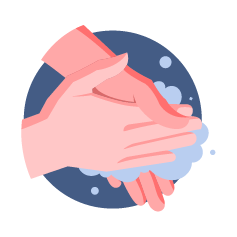
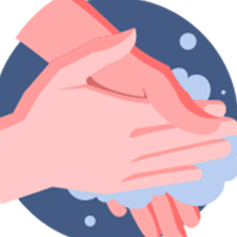
Se modifica seccion de historia

diff --git a/src/components/talleres/Presentacion3.jsx b/src/components/talleres/Presentacion3.jsx
@@ -1,6 +1,7 @@
 import React from 'react';
 import './css/estilos.css';
 import { Link } from 'react-router-dom';
+import imagenes from '../../assets/images';
 
 export const Presentacion3 = ({
     imagen,
@@ -10,26 +11,65 @@ export const Presentacion3 = ({
     return (
         <div className="presentacion-3">
             <div className="container">
-                <div className="row text-center">
-                    <div className="col-12 mt-5 d-flex justify-content-center">
-                        <div>
-                            <img className="img-fluid img-historia" src={imagen}/>
+                <div className="row">
+                    <div className="col-12 col-md-4 mt-5">
+                        <h2 className="titulo display-5">HISTORIA</h2>
+                        <p className="subtitulo">Lavado de manos</p>
+                        <p>
+                            Durante el año 1846, el médico Húngaro Ignaz Semmelweis, constató y fundamentó que 
+                            el lavado de manos entre el personal de salud disminuyó la mortalidad y otros pacedimientos
+                            entre los pacientes.
+                        </p>
+                    </div>
+                    <div className="col-12 col-md-8 mt-5">
+                        <div className="d-flex border-bottom p-3">
+                            <div>
+                                <h6 className="subtitulo-grande">Ignaz Semmelweis</h6>
+                                <p>
+                                    Propuso el lavado de manos entre el personal médico, y se evidenció que la mortalidad se 
+                                    disminuyó abruptamente a partir de ese momento, ésta estrategia se mantuvo
+                                    por varios años.
+                                </p>
+                            </div>
+                            <img src={ imagenes.historia } className="img1-presentacion-3" />
+                        </div>
+                        <div className="d-flex mt-4">
+                            <div className="pr-1 border-end">
+                                <p className="subtitulo">Personajes que realizaron aportes que muestran lavado de manos es una medida para evitar infecciones:</p>
+                                <ul>
+                                    <li>Ignaz Semmelweis</li>
+                                    <li>Oliver Holmes</li>
+                                </ul>
+                            </div>
+                            <img src={ imagenes.historia2 } className="img2-presentacion-3 p-2" />
                         </div>
                     </div>
-                    <div className="col-12 mt-5 d-flex justify-content-center ">
-                        <div className="text-center text-white p-3 rounded-pill texto-historia">
-                            <p className="display-6">{parrafo} </p>
-                        </div>
-                    </div>
-                    <Link
-                    to={ enlace }
-                    className="regresar-menu mt-3"
-                >
-                    Seguir leyendo >>
-                </Link>
                 </div>
             </div>
-            
         </div>
     )
 }
+
+{/* <div className="presentacion-3">
+<div className="container">
+    <div className="row text-center">
+        <div className="col-12 mt-5 d-flex justify-content-center">
+            <div>
+                <img className="img-fluid img-historia" src={imagen}/>
+            </div>
+        </div>
+        <div className="col-12 mt-5 d-flex justify-content-center ">
+            <div className="text-center text-white p-3 rounded-pill texto-historia">
+                <p className="display-6">{parrafo} </p>
+            </div>
+        </div>
+        <Link
+        to={ enlace }
+        className="regresar-menu mt-3"
+    >
+        Seguir leyendo >>
+    </Link>
+    </div>
+</div>
+
+</div> */}

diff --git a/src/components/talleres/MenuSeleccion/MenuSeleccion.jsx b/src/components/talleres/MenuSeleccion/MenuSeleccion.jsx
@@ -13,15 +13,15 @@ export const MenuSeleccion = () => {
             <div className="container my-5">
                 <div className="row ">
                     <div className="col-12 col-md-6">
-                        <OpcionMenuSeleccion texto="Introducción" imagen={ imagenes.uno } ruta="/lavado-manos/introduccion" />
-                        <OpcionMenuSeleccion texto="Lavado de manos social" imagen={ imagenes.dos } ruta="/lavado-manos/introduccion" />
-                        <OpcionMenuSeleccion texto="Elementos necesarios" imagen={ imagenes.tres } ruta="/lavado-manos/introduccion" />
+                        <OpcionMenuSeleccion texto="Introducción" imagen={ imagenes.uno } ruta="/adultos/lavado-manos/introduccion" />
+                        <OpcionMenuSeleccion texto="Lavado de manos social" imagen={ imagenes.dos } ruta="/adultos/lavado-manos/lavado-social" />
+                        <OpcionMenuSeleccion texto="Elementos necesarios" imagen={ imagenes.tres } ruta="/adultos/lavado-manos/elementos-necesarios" />
                     </div>
 
                     <div className="col-12 col-md-6"> 
-                        <OpcionMenuSeleccion texto="5 momentos del lavado de manos" imagen={ imagenes.cuatro } ruta="/lavado-manos/introduccion" />
-                        <OpcionMenuSeleccion texto="Tecnica correcta de lavado" imagen={ imagenes.cinco } ruta="/lavado-manos/introduccion" />
-                        <OpcionMenuSeleccion texto="Cuestionario" imagen={ imagenes.seis} ruta="/lavado-manos/introduccion" />
+                        <OpcionMenuSeleccion texto="5 momentos del lavado de manos" imagen={ imagenes.cuatro } ruta="/adultos/lavado-manos/video2" />
+                        <OpcionMenuSeleccion texto="Tecnica correcta de lavado" imagen={ imagenes.cinco } ruta="/adultos/lavado-manos/introduccion" />
+                        <OpcionMenuSeleccion texto="Cuestionario" imagen={ imagenes.seis} ruta="/adultos/lavado-manos/introduccion" />
                     </div>
                 </div>
             </div>

diff --git a/src/components/talleres/Presentacion2.jsx b/src/components/talleres/Presentacion2.jsx
@@ -21,7 +21,7 @@ export const Presentacion2 = ({
                 <div className="container">
                     <div className="row">
                         <div className="col-md-3 d-none d-md-flex justify-content-center align-items-center div-img-intro">
-                            <img src={imagen}
+                            <img src={ imagen }
                                 alt="adulto mujer"
                                 className="img-introduccion d-none d-md-block"
                             />
@@ -41,7 +41,7 @@ export const Presentacion2 = ({
                                 to={ enlace }
                                 className="seguir-leyendo"
                                 onClick={() => {
-                                    setStopAudio(sound);
+                                    setStopAudio( sound );
                                 }
                                 }
                             >

diff --git a/src/components/adultos/lavadoManos/IntroduccionLavadoManos.jsx b/src/components/adultos/lavadoManos/IntroduccionLavadoManos.jsx
@@ -9,7 +9,7 @@ export const IntroduccionLavadoManos = () => {
     return (
         <Presentacion2 
             imagen={ imagenes.lavadoDeManosDos}
-            parrafo1= "La higiene de manos es el termino general que se aplica al lavado de manos con agua y gabón, que se realiza en los centros sanitarios para prevenir las infecciones asociadas con la atencion en salud, aunque puede ser realizado con otras substancias antisepticas"
+            parrafo1= "La higiene de manos es el termino general que se aplica al lavado de manos con agua y jabón, que se realiza en los centros sanitarios para prevenir las infecciones asociadas con la atencion en salud, aunque puede ser realizado con otras substancias antisepticas"
             sonido={ audioIntro }
             enlace="/adultos/lavado-manos/historia"
         />

diff --git a/src/components/talleres/css/estilos.css b/src/components/talleres/css/estilos.css
@@ -13,9 +13,9 @@
 
 .img-introduccion {
     border-radius: 50%;
-    width: 45vh;
-    height: 40vh;
-    border: 1rem white solid;
+    width: 55vh;
+    height: 55vh;
+    border: 2rem white solid;
 }
 
 .contenedor-intro {
@@ -47,6 +47,16 @@
     min-height: 100vh;
 }
 
+.img1-presentacion-3 {
+    max-width: 30vh;
+    margin-left: 3vmin;
+    border-radius: 20px;
+}
+
+.img2-presentacion-3 {
+    max-width: 60vh;
+}
+
 .img-historia {
     width: 350px;
     border-radius: 10px;
@@ -73,10 +83,6 @@
 }
 
 @media screen and (max-width: 1200px) {
-    /* .div-img-intro, .div-img-intro img {
-        display: none;
-    } */
-    
     .contenedor-intro {
         width: 100%;
     }

diff --git a/src/assets/images.js b/src/assets/images.js
@@ -22,6 +22,7 @@ import cinco from './images/taller1/5.png';
 import seis from './images/taller1/6.png';
 import lavadoDeManosDos from './images/taller1/lavado-de-manos-2.png';
 import historia from './images/taller1/je.png';
+import historia2 from './images/taller1/historia2.jpg';
 import diaLavado from './images/taller1/dia-lavado.png';
 import doctora from './images/taller1/dra.png';
 import joven from './images/taller1/joven.png';
@@ -58,6 +59,7 @@ export default {
     "seis": seis,
     "lavadoDeManosDos": lavadoDeManosDos,
     "historia": historia,
+    "historia2": historia2,
     "diaLavado": diaLavado,
     "doctora": doctora,
     "joven": joven,

diff --git a/src/components/adultos/menuAdultos/MenuAdultos.jsx b/src/components/adultos/menuAdultos/MenuAdultos.jsx
@@ -9,7 +9,7 @@ export const MenuAdultos = () => {
                 <div className="row d-flex flex-column align-items-center">
                     <OpcionMenu texto="Introducción: ¿Qué es el COVID-19?" color="#004aad" ruta="/introduccion-adultos" />
 
-                    <OpcionMenu texto="Taller 1: Lavado de manos" color='#246cce' />
+                    <OpcionMenu texto="Taller 1: Lavado de manos" color='#246cce' ruta="/adultos/lavado-manos/presentacion" />
 
                     <OpcionMenu texto="Taller 2" color='#468fee' />
 

diff --git a/src/components/adultos/lavadoManos/LavadoManos.jsx b/src/components/adultos/lavadoManos/LavadoManos.jsx
@@ -8,7 +8,7 @@ export const LavadoManos = () => {
             titulo="TALLER 1: LAVADO DE MANOS"
             parrafo="Bienvenidos al taller de lavado de manos, aquí aprenderás datos muy interesantes relacionados a esta medida tan importante para prevenir el COVID-19"
             imagen={ imagenes.lavadoManos }
-            enlace="/opciones-lavado-manos"
+            enlace="/adultos/lavado-manos/opciones"
         /> 
     )
 }

diff --git a/src/App.css b/src/App.css
@@ -17,3 +17,23 @@ a {
 a:hover {
     color: #FFF;
 }
+
+.titulo, .subtitulo, .subtitulo-grande {
+    text-transform: uppercase;
+}
+
+.titulo {
+    font-weight: bold;
+    color: rgb(0, 11, 110);
+}
+
+.subtitulo {
+    color: rgb(69, 77, 82);
+    font-weight: 500;
+}
+
+.subtitulo-grande {
+    color: rgb(26, 125, 190);
+    font-size: 5vmin;
+    font-weight: lighter;
+}
